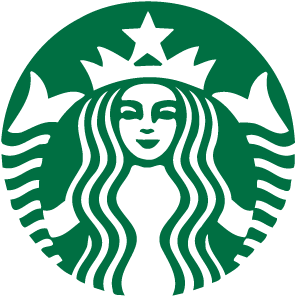
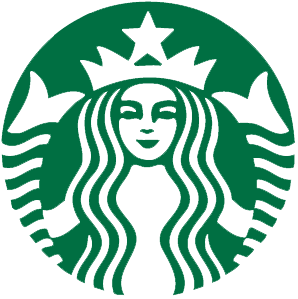
images + hex values

diff --git a/templates/index.html b/templates/index.html
@@ -9,7 +9,7 @@
 
 <header id="header" class="row">
     <div class="twelve columns">
-        <img src="/media/images/logo.png">
+        <img src="/media/images/brandseen.png" id="brandseen">
         <p>How well do you recognize brands?</p>
     </div>
 </header>

diff --git a/media/css/app.css b/media/css/app.css
@@ -33,3 +33,7 @@ header#header {
 
     padding: 20px;
 }
+
+img#brandseen {
+    width: 300px;
+}
